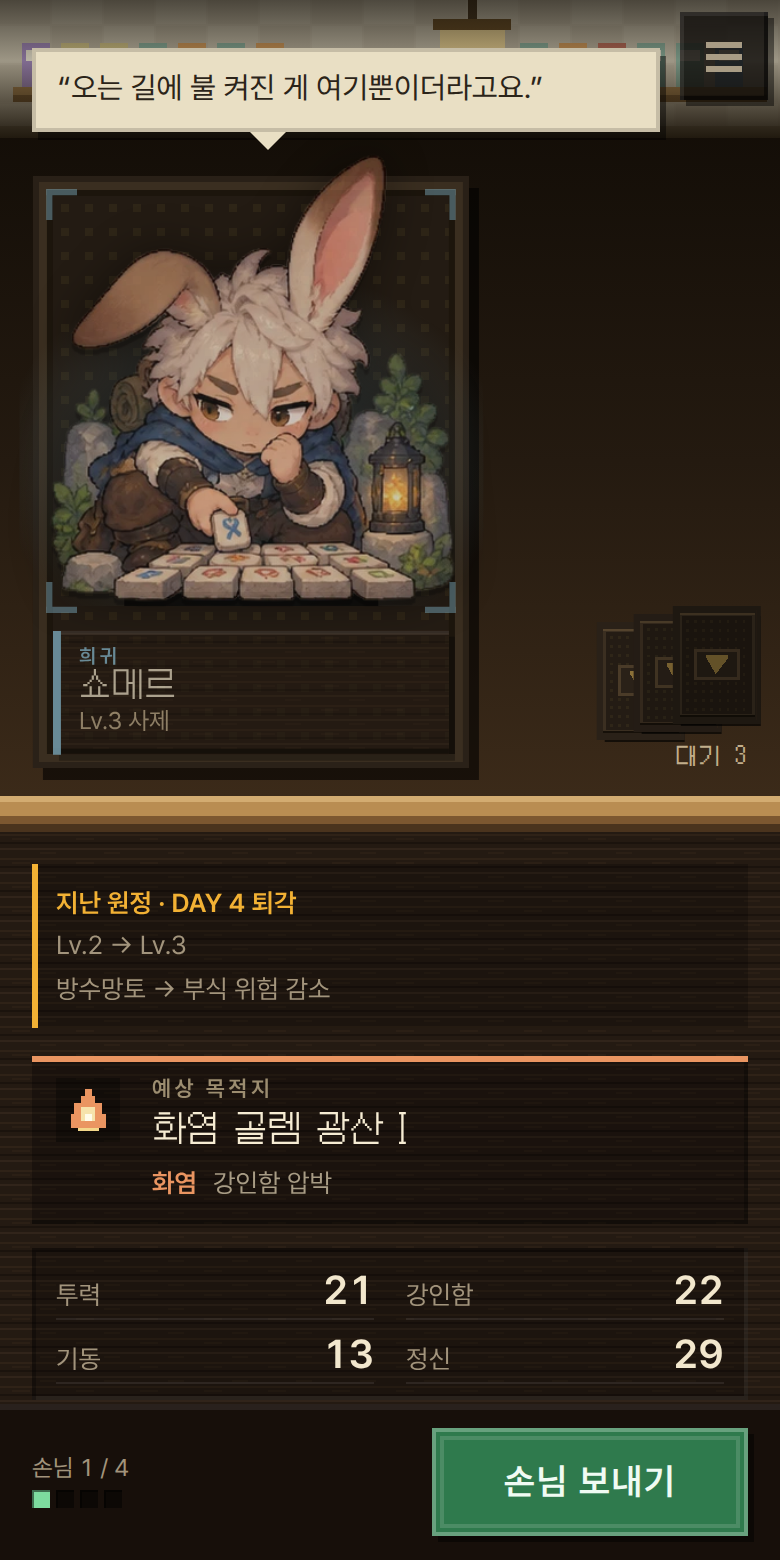
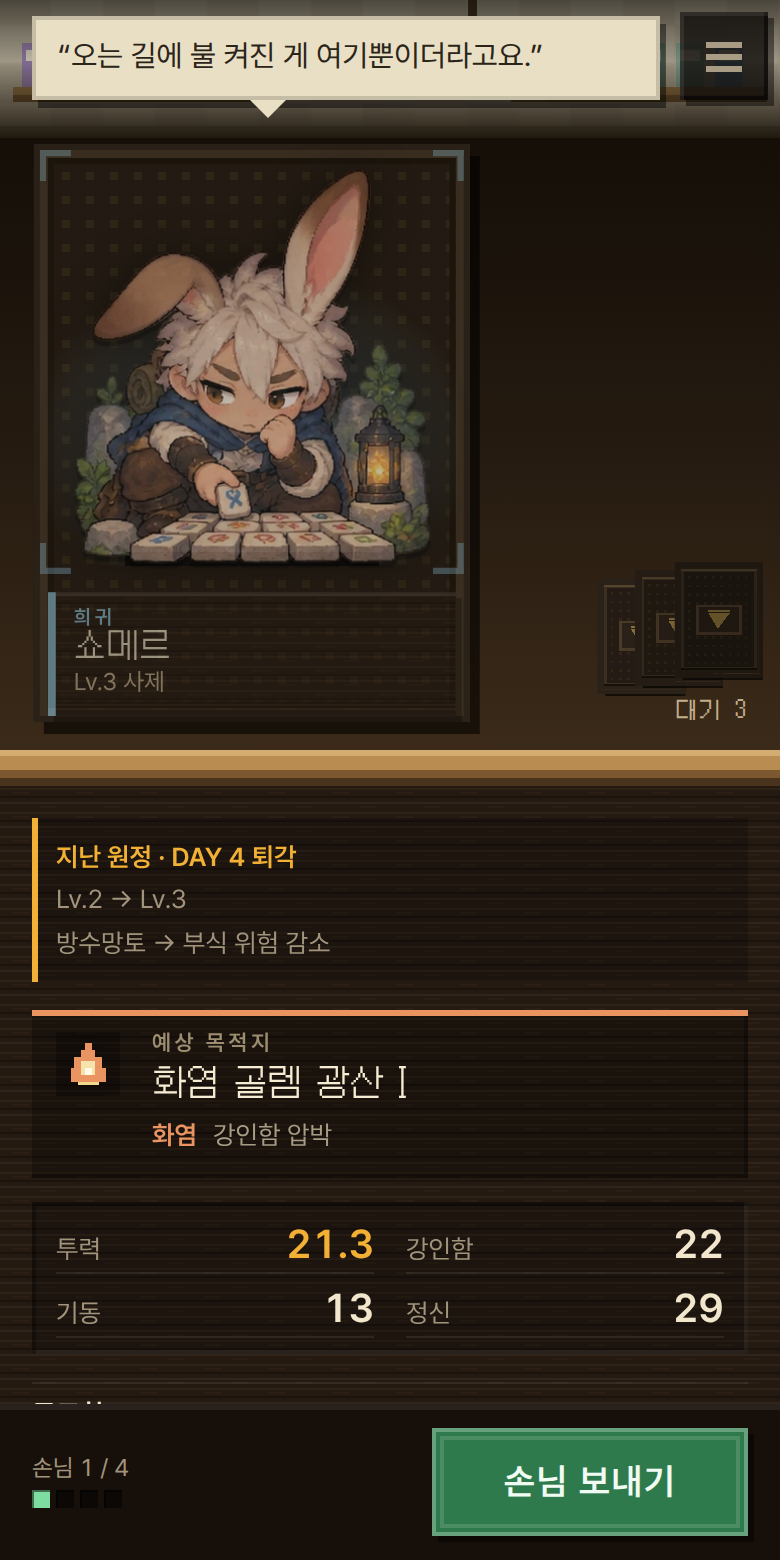
fix(ui): keep the portrait inside the card, now that the art has no margin to spare
D-3. The card deliberately drew the payload wider than itself and pulled it up over the top
edge - a sticker breaking the frame. That worked when the five placeholder portraits carried
generous transparent margins, because only the margin crossed the edge. The production art
does not: measured across all 200 shipped portraits, the median transparent margin is under
2% and many are 0 on every side. So it was painted artwork leaving the card, on three sides,
for every customer.

Measured before the change, at 360/390/430/900: 9 of 9 portraits escaped, 3-7px past each
side and 8-18px above the top. After: 0 of 9 at every width.

The payload now lives in a square box inside the frame and fills it with object-fit: contain,
so no silhouette is cropped and none is stretched; the card itself clips as a backstop for
whatever arrives next. --frame is tightened from 10px to 7px so containing the art costs the
face as little scale as it can - the painted width goes from 224-232px to 194-204px at 390.
Some loss is unavoidable: with no margin in the source, the art either sits inside the frame
or crosses it, and cropping it is what the request rules out.

Two harness checks asserted the old contract - that the payload must be wider than the card
and must overhang the top - so they asserted the bug once the production art landed. They now
check the opposite, side by side, with the reason recorded.

Claude-Session: https://claude.ai/code/session_01JhGGXL1LY3cCsoZNqX12VA

diff --git a/dist/ui/ui.css b/dist/ui/ui.css
@@ -302,7 +302,7 @@ input[type=text],.seed-field{background:#0b0806;border:0;box-shadow:inset 2px 2p
 .p-sale{background:#191208}
 /* ---- layer 1 : who is here --------------------------------------------------- */
 .front{position:relative;flex:0 0 auto;display:grid;grid-template-columns:auto minmax(0,1fr);
- grid-template-rows:auto auto;align-items:end;gap:6px;padding:calc(var(--over) - var(--frame) + 8px) var(--gutter) 0;overflow:hidden;
+ grid-template-rows:auto auto;align-items:end;gap:6px;padding:8px var(--gutter) 0;overflow:hidden;
  background:linear-gradient(180deg,#0d0904 0,#241a10 58%,#3b2a19 100%);
  /* ONE deck geometry, declared once. The card's height is content — frame, the payload's
     visible height, the nameplate — so the plate can never reach the artwork. The waiting
@@ -311,9 +311,15 @@ input[type=text],.seed-field{background:#0b0806;border:0;box-shadow:inset 2px 2p
  /* the card also yields to a short viewport, so the counter and the send-off key are
     never pushed off screen: the term below is the height budget left after the counter
     edge, the scroll's own padding and the dock. It never binds on a portrait phone. */
- --cardw:max(88px,min(56vw,232px,calc(90dvh - 300px)));--frame:10px;--plateh:62px;--gapb:9px;--deck:.185;
- --artw:calc(var(--cardw)*1.06);--over:max(calc(var(--frame) + 6px),calc(var(--cardw)*.12));
- --cardh:calc(var(--frame)*2 + var(--artw) - var(--over) + var(--gapb) + var(--plateh))}
+ /* The payload used to be drawn larger than the card and pulled up over the frame, because the
+    placeholder stickers carried generous transparent margins of their own and only that margin
+    crossed the edge. The production portraits do not: measured across all 200, the median
+    transparent margin is under 2% and many are 0 on every side, so it was real painted artwork
+    leaving the card on three sides. The art now lives inside the frame, and --frame is tightened
+    so containing it costs the face as little scale as possible. */
+ --cardw:max(88px,min(56vw,232px,calc(90dvh - 300px)));--frame:7px;--plateh:62px;--gapb:9px;--deck:.185;
+ --artw:calc(var(--cardw) - var(--frame)*2);
+ --cardh:calc(var(--frame)*2 + var(--artw) + var(--gapb) + var(--plateh))}
 .front .backwall{position:absolute;left:0;right:0;top:0;z-index:0;line-height:0}
 .front .backwall .band-art{display:block;width:100%;height:auto}
 .front .backwall:after{content:'';position:absolute;inset:0;
@@ -339,17 +345,18 @@ input[type=text],.seed-field{background:#0b0806;border:0;box-shadow:inset 2px 2p
 .who:hover{background:transparent}
 .who:active{transform:none}
 .face{position:relative;display:flex;flex-direction:column;width:100%;max-width:100%;
- padding:var(--frame);margin-bottom:14px;
+ padding:var(--frame);margin-bottom:14px;overflow:hidden;
  background:var(--tex-deck),#241c14;background-size:12px 12px;
  box-shadow:inset 0 0 0 3px #2a2118,inset 0 0 0 7px #3b2f21,inset 0 0 0 10px #1d160d,
             5px 6px 0 #00000099}
-/* the portrait box: exactly as tall as the part of the payload that sits on the card */
-.portrait{position:relative;flex:0 0 auto;width:100%;height:calc(var(--artw) - var(--over))}
+/* the portrait box: the square the payload lives in, entirely inside the frame */
+.portrait{position:relative;flex:0 0 auto;width:100%;height:var(--artw)}
 .pool{position:absolute;z-index:0;left:50%;bottom:0;width:var(--artw);height:calc(var(--artw)*.8);
  transform:translateX(-50%);opacity:.3;
  background:radial-gradient(56% 54% at 50% 62%,var(--rare,#b4bba6) 0,#00000000 100%)}
-.figure{position:absolute;z-index:2;left:50%;top:calc(var(--over)*-1);
- width:var(--artw);height:var(--artw);margin-left:calc(var(--artw)/-2);
+/* contain, inside the box, standing on its floor: whatever aspect ratio a portrait has, the
+   whole of it is on the card and none of it is cropped. */
+.figure{position:absolute;z-index:2;left:0;top:0;width:100%;height:100%;
  object-fit:contain;object-position:50% 100%;image-rendering:auto;
  filter:drop-shadow(0 3px 0 #00000066) drop-shadow(0 0 12px #0000008c)}
 .figure.fallback{display:grid;place-items:center}
@@ -879,7 +886,8 @@ input[type=text],.seed-field{background:#0b0806;border:0;box-shadow:inset 2px 2p
  --deskcard:300px;
  .front{--cardw:max(88px,min(56vw,300px,calc(90dvh - 300px)))}
  .say{grid-row:2;grid-column:2;align-self:start;justify-self:start;
-  margin:calc(var(--over) + 18px) 0 0 14px;max-width:min(46ch,420px)}
+  /* the bubble used to be pushed down past the payload's overhang; there is no overhang now */
+  margin:18px 0 0 14px;max-width:min(46ch,420px)}
  .say:after{top:22px;left:-9px;
   border:9px solid transparent;border-right-color:var(--paper);border-left:0;border-bottom-width:9px}
 }
